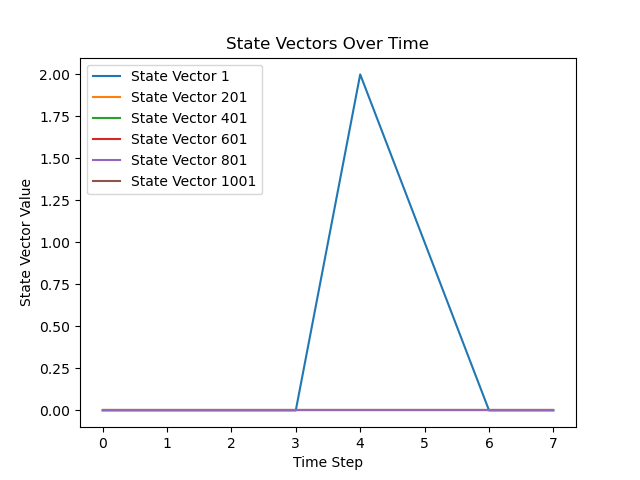
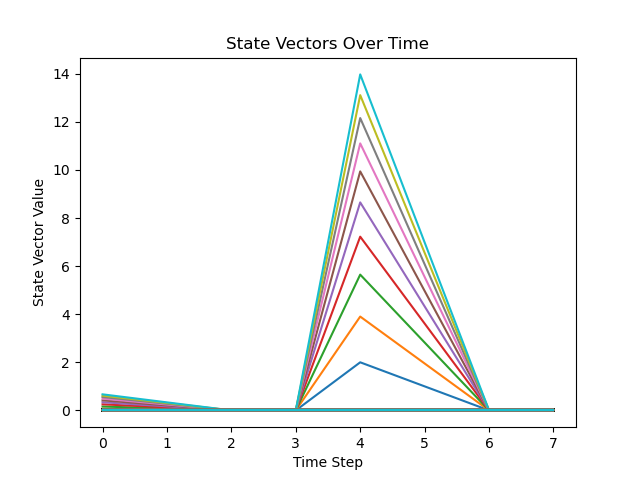
basic plotting of all 10 objects got some progress on that!

diff --git a/plotting_code.py b/plotting_code.py
@@ -2,54 +2,297 @@ import numpy as np
 import matplotlib.pyplot as plt
 from io import StringIO
 
-# Read and filter lines before the first star, skipping empty lines
-lines = []
+# Read file
 with open("./build/data.csv", "r") as f:
-    for line in f:
-        if '*' in line:  # Stop reading if a star is encountered
-            break
-        if line.strip():  # Only add non-empty lines
-            lines.append(line)
+    raw_data = f.read()
 
-# Join the lines and pass to StringIO to simulate a file-like object
-data_string = "".join(lines)
+# Split by object
+object_chunks = [chunk.strip() for chunk in raw_data.split("*") if chunk.strip()]
+print(object_chunks)
 
-# Remove any trailing empty lines (or lines that contain only commas)
-data_string = "\n".join([line for line in data_string.splitlines() if line.strip(',')])
+parsed_objects = []
 
-# Now, we will use np.genfromtxt to read the data and handle malformed rows
-try:
-    data = np.genfromtxt(StringIO(data_string), delimiter=",", skip_header=0, filling_values=np.nan)
+for i, chunk in enumerate(object_chunks):
+    lines = [line for line in chunk.splitlines() if line.strip(',').strip()]
+    if not lines:
+        print(f"Object {i+1} has no valid lines.")
+        continue
+
+    try:
+        # Parse the data
+        data = np.genfromtxt(StringIO("\n".join(lines)), delimiter=",", filling_values=np.nan)
+
+        # Check for abnormal or overflow values (e.g., values that are too large or too small)
+        if np.any(np.abs(data) > 1e10):  # Replace with a threshold value suitable for your data
+            print(f"Warning: Object {i+1} contains unusually large values, replacing with NaN.")
+            data[np.abs(data) > 1e10] = np.nan  # Replace abnormal values with NaN
+
+        # If data has only one row, reshape it
+        if data.ndim == 1:
+            data = np.expand_dims(data, axis=0)
+
+        # Ensure the object has enough rows
+        if data.shape[0] >= 2:
+            parsed_objects.append(data)
+            print(f"Parsed Object {i+1}: shape {data.shape}")
+        else:
+            print(f"Object {i+1} skipped — not enough rows.")
+    except Exception as e:
+        print(f"Error parsing Object {i+1}: {e}")
+
+# Plotting
+if not parsed_objects:
+    print("No valid object data parsed.")
+else:
+    plt.figure(figsize=(10, 8))
+
+    for idx, data in enumerate(parsed_objects):
+        # Exclude NaN values before plotting
+        x = data[0, :]
+        y = data[1, :]
+        
+        # Remove NaN values
+        valid_indices = np.isfinite(x) & np.isfinite(y)
+        x_valid = x[valid_indices]
+        y_valid = y[valid_indices]
+        
+        plt.plot(x_valid, y_valid, label=f"Object {idx + 1}", linewidth=2)
+
+    plt.title("2D Trajectories of All Objects")
+    plt.xlabel("X Position")
+    plt.ylabel("Y Position")
+    plt.legend()
+    plt.grid(True)
+    plt.tight_layout()
+    plt.savefig("all_objects_one_plot.png")
+    plt.show()
+
+
+# import numpy as np
+# import matplotlib.pyplot as plt
+# from io import StringIO
+
+# # Read file
+# with open("./build/data.csv", "r") as f:
+#     raw_data = f.read()
+
+# # Split by object
+# object_chunks = [chunk.strip() for chunk in raw_data.split("*") if chunk.strip()]
+# print(object_chunks)
+
+# parsed_objects = []
+
+# for i, chunk in enumerate(object_chunks):
+#     lines = [line for line in chunk.splitlines() if line.strip(',').strip()]
+#     if not lines:
+#         print(f"Object {i+1} has no valid lines.")
+#         continue
+
+#     try:
+#         data = np.genfromtxt(StringIO("\n".join(lines)), delimiter=",", filling_values=np.nan)
+#         if data.ndim == 1:
+#             data = np.expand_dims(data, axis=0)
+#         if data.shape[0] >= 2:
+#             parsed_objects.append(data)
+#             print(f"Parsed Object {i+1}: shape {data.shape}")
+#         else:
+#             print(f"Object {i+1} skipped — not enough rows.")
+#     except Exception as e:
+#         print(f"Error parsing Object {i+1}: {e}")
+
+# # Plotting
+# if not parsed_objects:
+#     print("No valid object data parsed.")
+# else:
+#     plt.figure(figsize=(10, 8))
+
+#     for idx, data in enumerate(parsed_objects):
+#         x = data[0, :]
+#         y = data[1, :]
+#         plt.plot(x, y, label=f"Object {idx + 1}", linewidth=2)
+
+#     plt.title("2D Trajectories of All Objects")
+#     plt.xlabel("X Position")
+#     plt.ylabel("Y Position")
+#     plt.legend()
+#     plt.grid(True)
+#     plt.tight_layout()
+#     plt.savefig("all_objects_one_plot.png")
+#     plt.show()
+
+
+# import numpy as np
+# import matplotlib.pyplot as plt
+# from io import StringIO
+
+# # Read and parse the file
+# with open("./build/data.csv", "r") as f:
+#     raw_data = f.read()
+
+# # Split into object chunks
+# object_chunks = [chunk.strip() for chunk in raw_data.split("*") if chunk.strip()]
+
+# parsed_objects = []
+
+# for chunk in object_chunks:
+#     lines = [line for line in chunk.splitlines() if line.strip(',').strip()]
+#     if not lines:
+#         continue
+
+#     try:
+#         data = np.genfromtxt(StringIO("\n".join(lines)), delimiter=",", filling_values=np.nan)
+#         if data.ndim == 1:
+#             data = np.expand_dims(data, axis=0)
+#         if data.shape[0] >= 2:
+#             parsed_objects.append(data)
+#     except Exception as e:
+#         print(f"Error parsing chunk: {e}")
+
+# # Plot all objects on the same figure
+# if not parsed_objects:
+#     print("No valid data found.")
+# else:
+#     plt.figure(figsize=(10, 8))
+
+#     for idx, data in enumerate(parsed_objects):
+#         x = data[0, :]
+#         y = data[1, :]
+#         plt.plot(x, y, label=f"Object {idx + 1}", linewidth=2)
+
+#     plt.title("2D Trajectories of All Objects")
+#     plt.xlabel("X Position")
+#     plt.ylabel("Y Position")
+#     plt.legend()
+#     plt.grid(True)
+#     plt.tight_layout()
+#     plt.savefig("all_objects_one_plot.png")
+#     plt.show()
+
+# import numpy as np
+# import matplotlib.pyplot as plt
+
+# from io import StringIO
+
+# # Read the file and split by '*'
+# with open("./build/data.csv", "r") as f:
+#     raw_data = f.read()
+
+# # Split into chunks using '*' as the delimiter
+# object_chunks = raw_data.split("*")
+
+# # Filter out empty or whitespace-only chunks
+# object_chunks = [chunk.strip() for chunk in object_chunks if chunk.strip()]
+
+# # Store parsed data
+# parsed_objects = []
+
+# for chunk in object_chunks:
+#     # Remove any lines that are just commas or whitespace
+#     clean_lines = [line for line in chunk.splitlines() if line.strip(',').strip()]
     
-    # Check if the data loaded successfully and has multiple columns
-    if data.size > 0 and data.shape[1] > 1:  # Ensure there are multiple columns
-        print(f"Data loaded successfully with shape {data.shape}.")
-        
-        # Plot each column (state vector component) over time
-        time_steps = np.arange(data.shape[0])  # Time steps based on number of rows
-        
-        # Plot only every 200th state vector for labeling
-        for i in range(0, data.shape[1], 200):  # Every 200th state vector for labeling
-            plt.plot(time_steps, data[:, i], label=f'State Vector {i+1}')  # Label selected state vectors
-        
-        # Label the axes and title
-        plt.xlabel('Time Step')
-        plt.ylabel('State Vector Value')
-        plt.title('State Vectors Over Time')
-        plt.legend()
+#     if not clean_lines:
+#         continue
 
-        # Save the plot to a file (for example, in PNG format)
-        plt.savefig('state_vectors_plot.png')  # You can specify a different path or format
-        print("Plot saved as 'state_vectors_plot.png'.")
+#     try:
+#         data = np.genfromtxt(StringIO("\n".join(clean_lines)), delimiter=",", filling_values=np.nan)
+        
+#         if data.ndim == 1:
+#             data = np.expand_dims(data, axis=0)
+        
+#         if data.shape[0] >= 2:  # Must have at least two rows to extract X and Y
+#             parsed_objects.append(data)
+#         else:
+#             print("Skipped a chunk due to insufficient rows.")
 
-        # Optionally, display the plot
-        plt.show()
+#     except Exception as e:
+#         print(f"Error parsing chunk: {e}")
 
-    else:
-        print("Data doesn't have the expected number of columns.")
-except ValueError as e:
-    print("Error in loading data:", e)
-    print("Check if there are malformed rows or excessive columns.")
+# # Plotting
+# num_objects = len(parsed_objects)
+# if num_objects == 0:
+#     print("No valid object data found.")
+# else:
+#     cols = min(3, num_objects)
+#     rows = (num_objects + cols - 1) // cols  # ceiling division for rows
+
+#     fig, axs = plt.subplots(rows, cols, figsize=(5 * cols, 4 * rows), squeeze=False)
+
+#     for idx, data in enumerate(parsed_objects):
+#         row = idx // cols
+#         col = idx % cols
+#         ax = axs[row][col]
+
+#         x_values = data[0, :]
+#         y_values = data[1, :]
+
+#         ax.plot(x_values, y_values, color='blue', linewidth=2, linestyle='dashed')
+#         ax.set_title(f'Object {idx + 1}')
+#         ax.set_xlabel('X position')
+#         ax.set_ylabel('Y position')
+
+#     # Hide unused subplots
+#     for idx in range(num_objects, rows * cols):
+#         fig.delaxes(axs[idx // cols][idx % cols])
+
+#     fig.suptitle('2D Plots of State Vectors for All Objects', fontsize=16)
+#     plt.tight_layout(rect=[0, 0.03, 1, 0.95])  # Adjust layout to fit title
+#     plt.savefig('all_objects_subplot.png')
+#     plt.show()
+
+# import numpy as np
+# import matplotlib.pyplot as plt
+# from io import StringIO
+
+# # Read and filter lines before the first star, skipping empty lines
+# lines = []
+# with open("./build/data.csv", "r") as f:
+#     for line in f:
+#         if '*' in line:  # Stop reading if a star is encountered
+#             break
+#         if line.strip():  # Only add non-empty lines
+#             lines.append(line)
+
+# # Join the lines and pass to StringIO to simulate a file-like object
+# data_string = "".join(lines)
+
+# # Remove any trailing empty lines (or lines that contain only commas)
+# data_string = "\n".join([line for line in data_string.splitlines() if line.strip(',')])
+
+# # Now, we will use np.genfromtxt to read the data and handle malformed rows
+# try:
+#     data = np.genfromtxt(StringIO(data_string), delimiter=",", skip_header=0, filling_values=np.nan)
+    
+#     # Check if the data loaded successfully and has multiple rows
+#     if data.size > 0 and data.shape[0] > 1:  # Ensure there are multiple rows
+#         print(f"Data loaded successfully with shape {data.shape}.")
+        
+#         # Extract the first two rows (not columns) of each state vector
+#         x_values = data[0, :]  # First row (state vector 1)
+#         print(x_values)
+#         y_values = data[1, :]  # Second row (state vector 2)
+#         print(y_values)
+        
+#         # Create a 2D scatter plot using the first two rows
+#         plt.plot(x_values, y_values, color = 'blue', linewidth=3, linestyle='dashed')
+        
+#         # Label the axes and title
+#         plt.xlabel('X position')
+#         plt.ylabel('Y position')
+#         plt.title('2D Scatter Plot of State Vector X and Y positions')
+        
+#         # Save the plot to a file (for example, in PNG format)
+#         plt.savefig('state_vectors_scatterplot.png')  # You can specify a different path or format
+#         print("Scatter plot saved as 'state_vectors_scatterplot.png'.")
+
+#         # Optionally, display the plot
+#         plt.show()
+
+#     else:
+#         print("Data doesn't have the expected number of rows.")
+# except ValueError as e:
+#     print("Error in loading data:", e)
+#     print("Check if there are malformed rows or excessive columns.")
+
 
 
 

diff --git a/src/write.cpp b/src/write.cpp
@@ -26,8 +26,11 @@ int writeDoubles(double data[][1000][8])
           for (int j = 0; j < 1000; j++) {
 
           
+            if (j != 999) {
               myfile << data[k][j][i] << ",";
-          
+            } else {
+                myfile << data[k][j][i];
+            }
 
           }
           myfile << std::endl;
